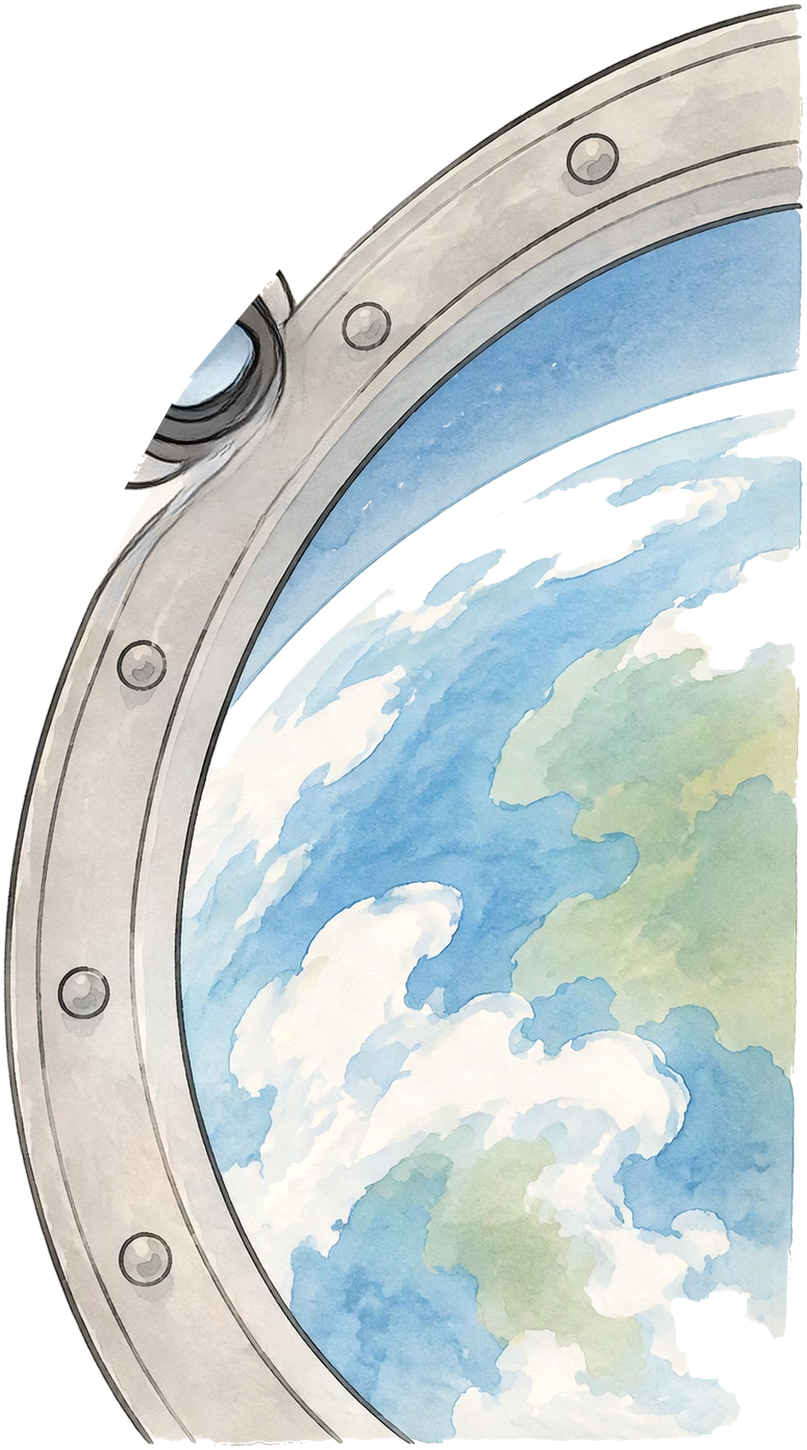
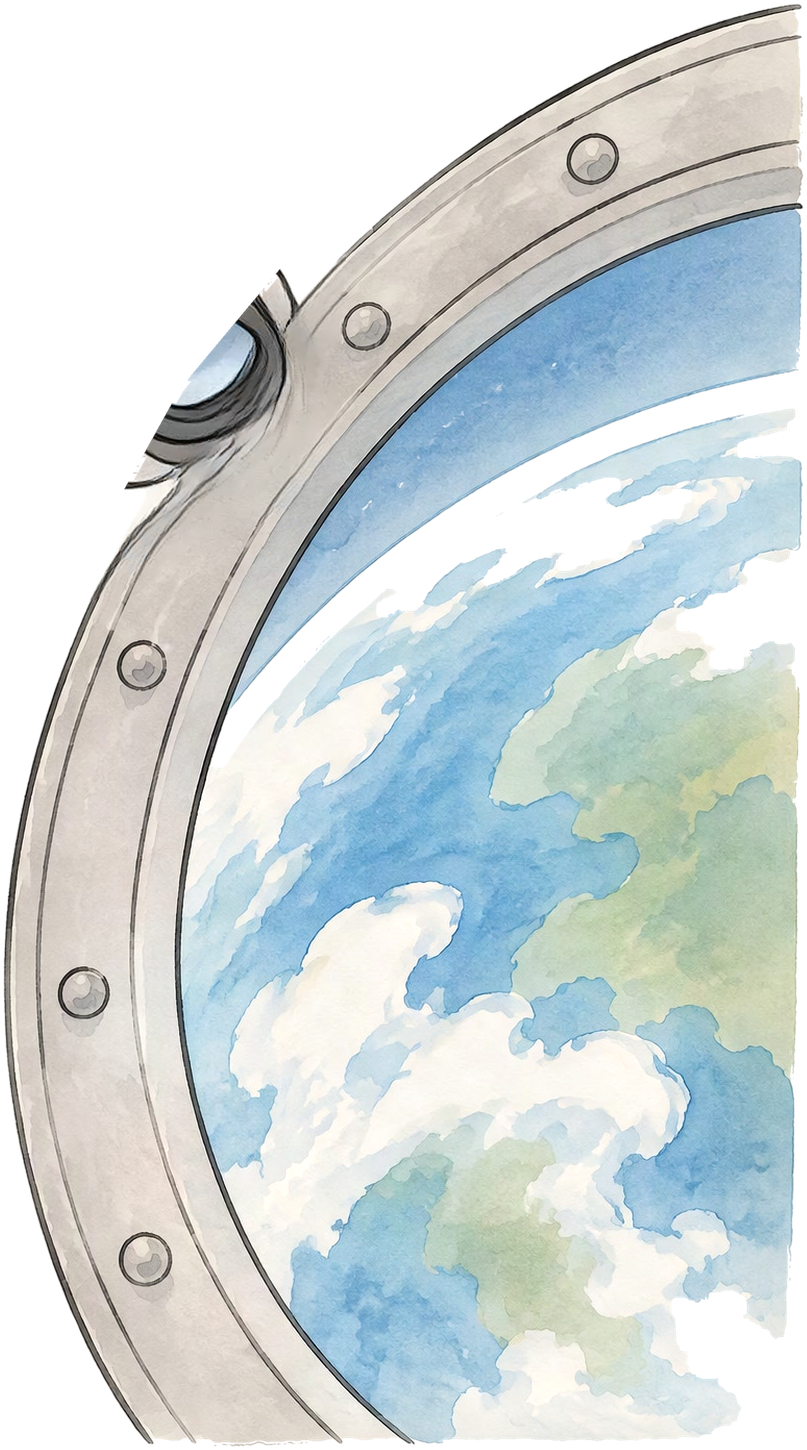
Reel 54: hook scene iteration
Claude-Session: https://claude.ai/code/session_01WL83YHdupNJiw52fjyDVVG

Changed region(s): [[0.1239, 0.1862, 0.4027, 0.4034]]

diff --git a/videos/54_mif_stena/reel/anim/space_hf/index.html b/videos/54_mif_stena/reel/anim/space_hf/index.html
@@ -47,7 +47,7 @@
       while (t < H - 0.1) {
         const up = i % 2 === 0;
         tl.to("#catL", { y: up ? -26 - 8 * (i % 3) : 6, x: up ? -14 + 5 * (i % 2) : 12, rotation: up ? -2.6 : 2.2,
-                         scaleY: up ? 1.025 : 0.985, duration: J / 2, ease: up ? "power2.out" : "power2.in" }, t);
+                         scaleY: up ? 1.025 : 0.985, duration: J / 2, ease: "none" }, t);
         t += J / 2; i++;
       }
       // «кОсмоса»: сжался и отшатнулся назад (влево-вверх, от иллюминатора), пружиной с перелётом на место

diff --git a/videos/54_mif_stena/reel/anim/kit_space.py b/videos/54_mif_stena/reel/anim/kit_space.py
@@ -28,8 +28,8 @@ def P(pts):
     return [(int(x * K), int(y * K)) for x, y in pts]
 
 
-CAT_REG = P([(0, 340), (195, 340), (205, 212), (672, 212), (672, 500), (640, 545), (600, 585), (592, 745), (540, 775),
-             (470, 805), (432, 880), (0, 892)])
+CAT_REG = P([(0, 340), (195, 340), (205, 212), (672, 212), (672, 480), (640, 520), (606, 572), (574, 620), (570, 748),
+             (530, 776), (440, 815), (400, 840), (400, 892), (0, 892)])
 Q_BOX = tuple(int(v * K) for v in (668, 352, 740, 440))
 PORT = P([(424, 1248), (424, 1000), (436, 880), (466, 790), (516, 700), (576, 628), (656, 568), (740, 532), (832, 500),
           (832, 1248)])
